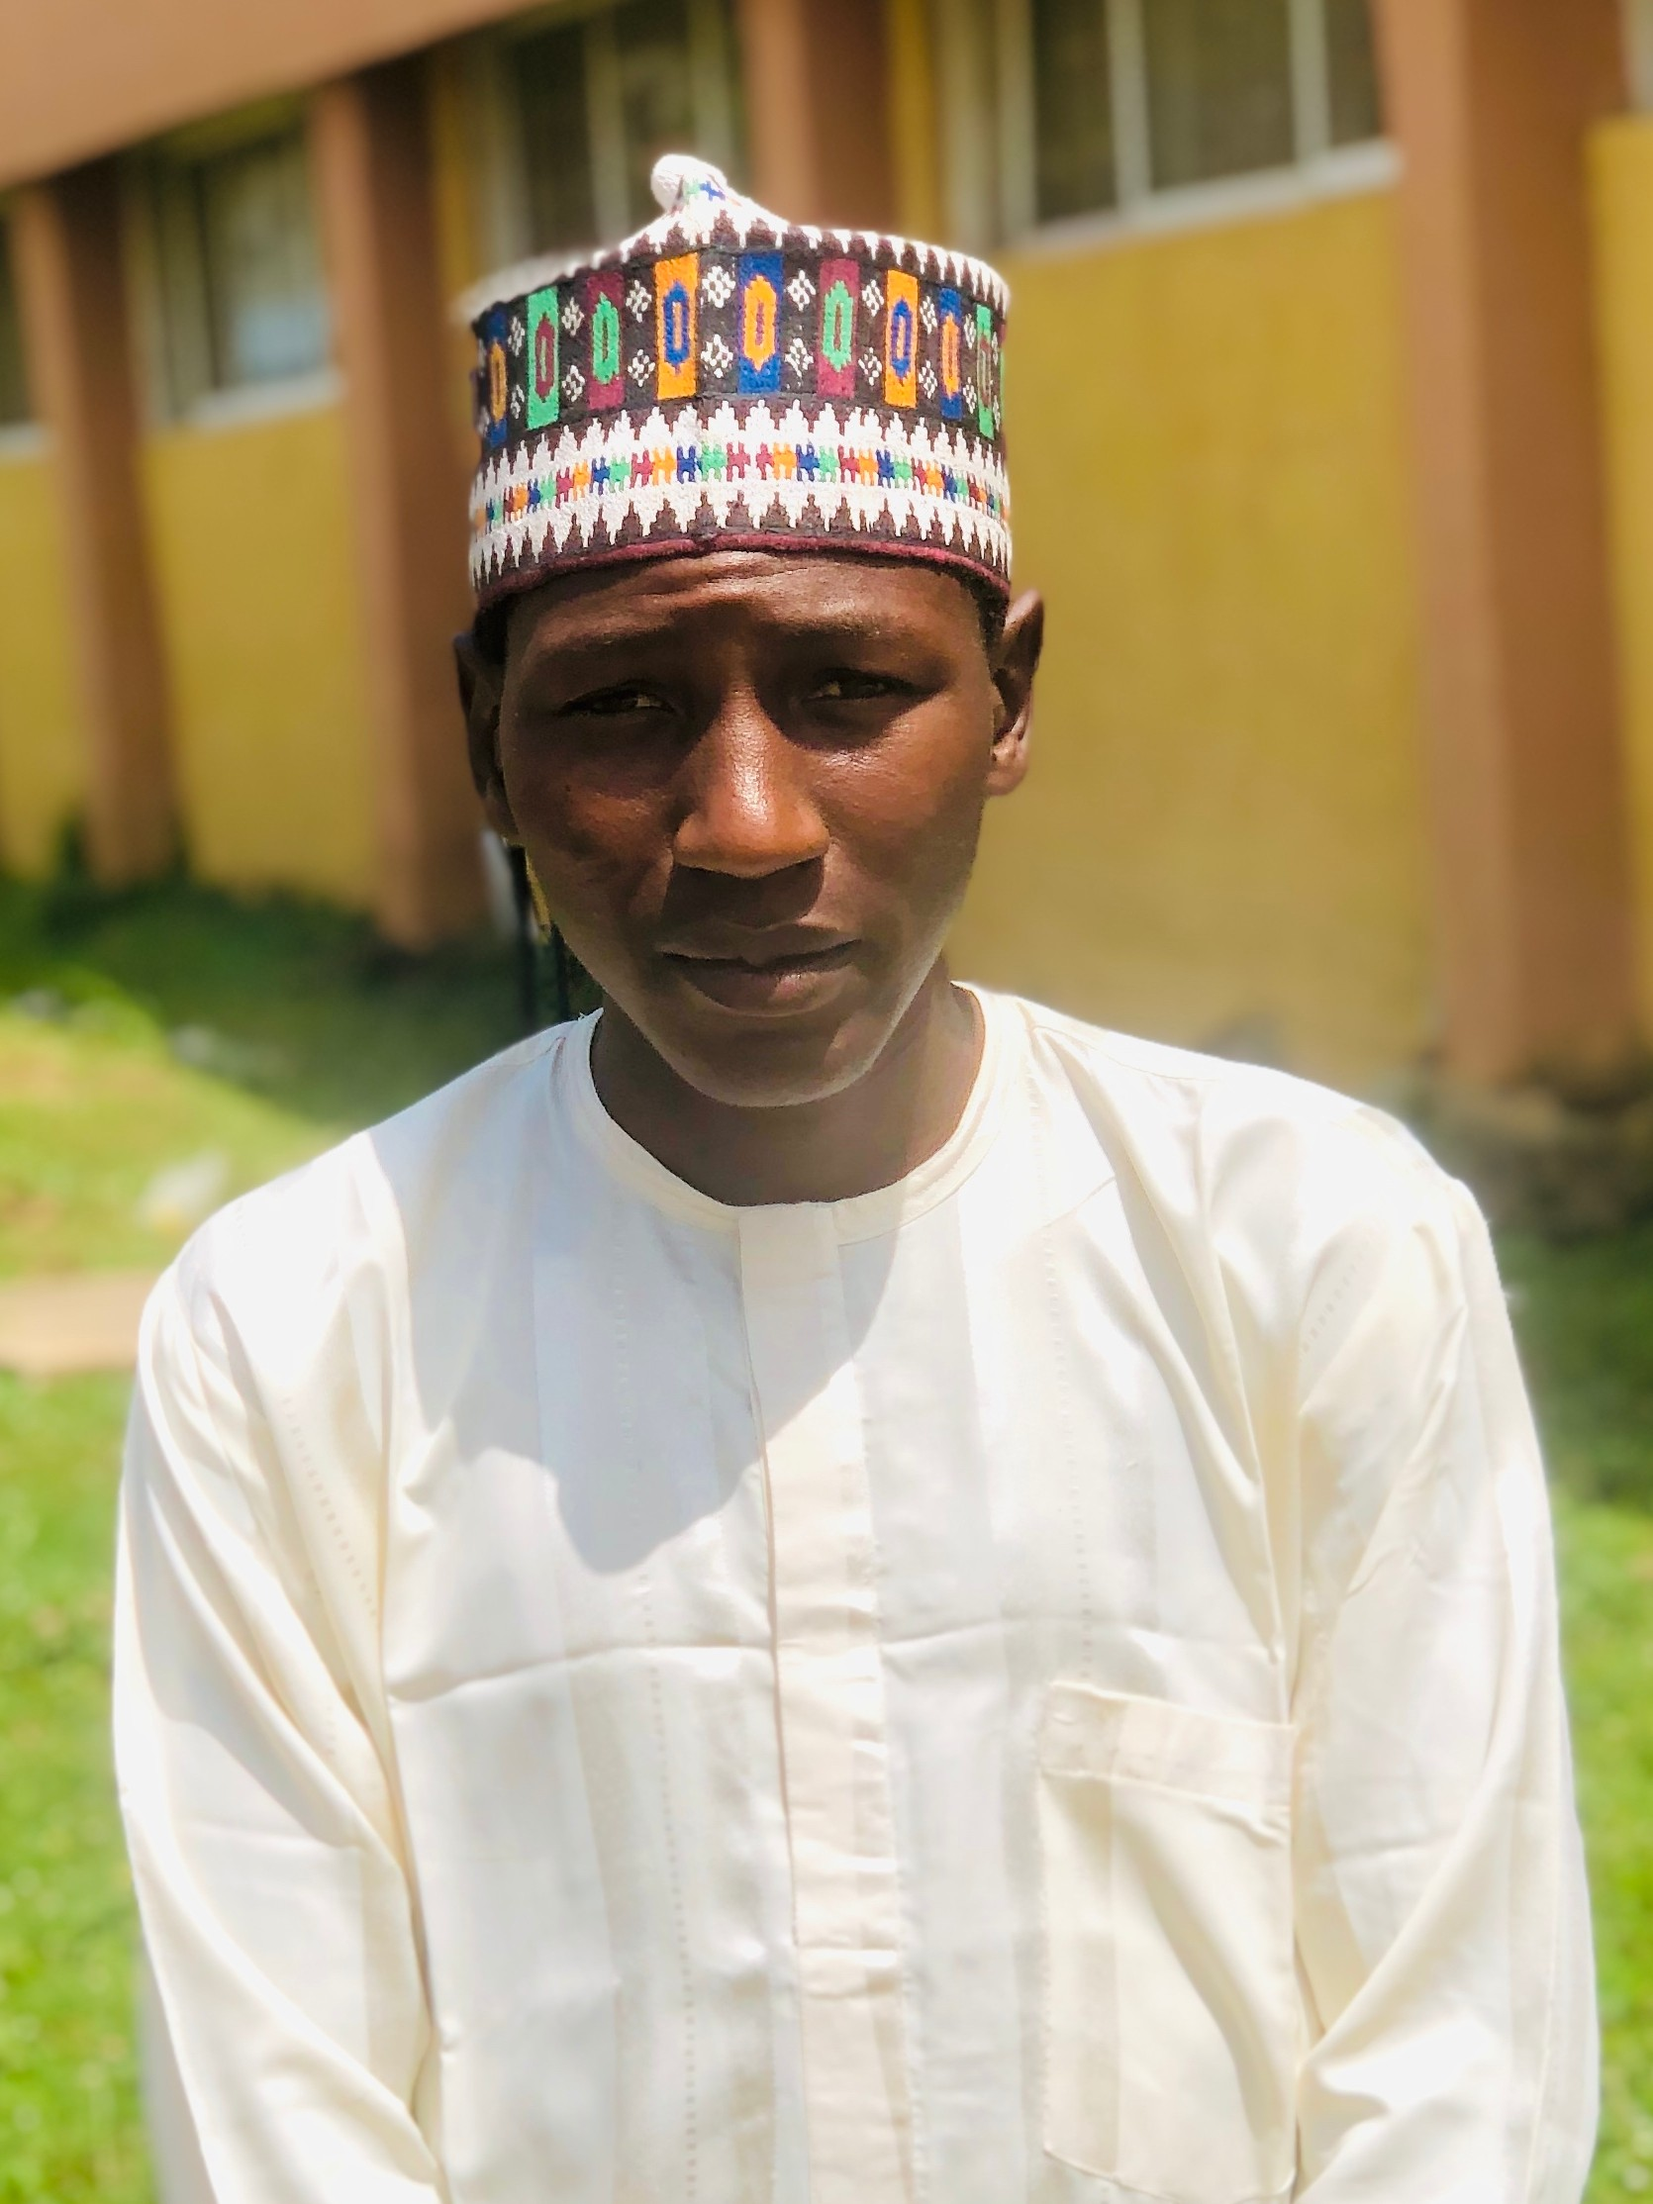
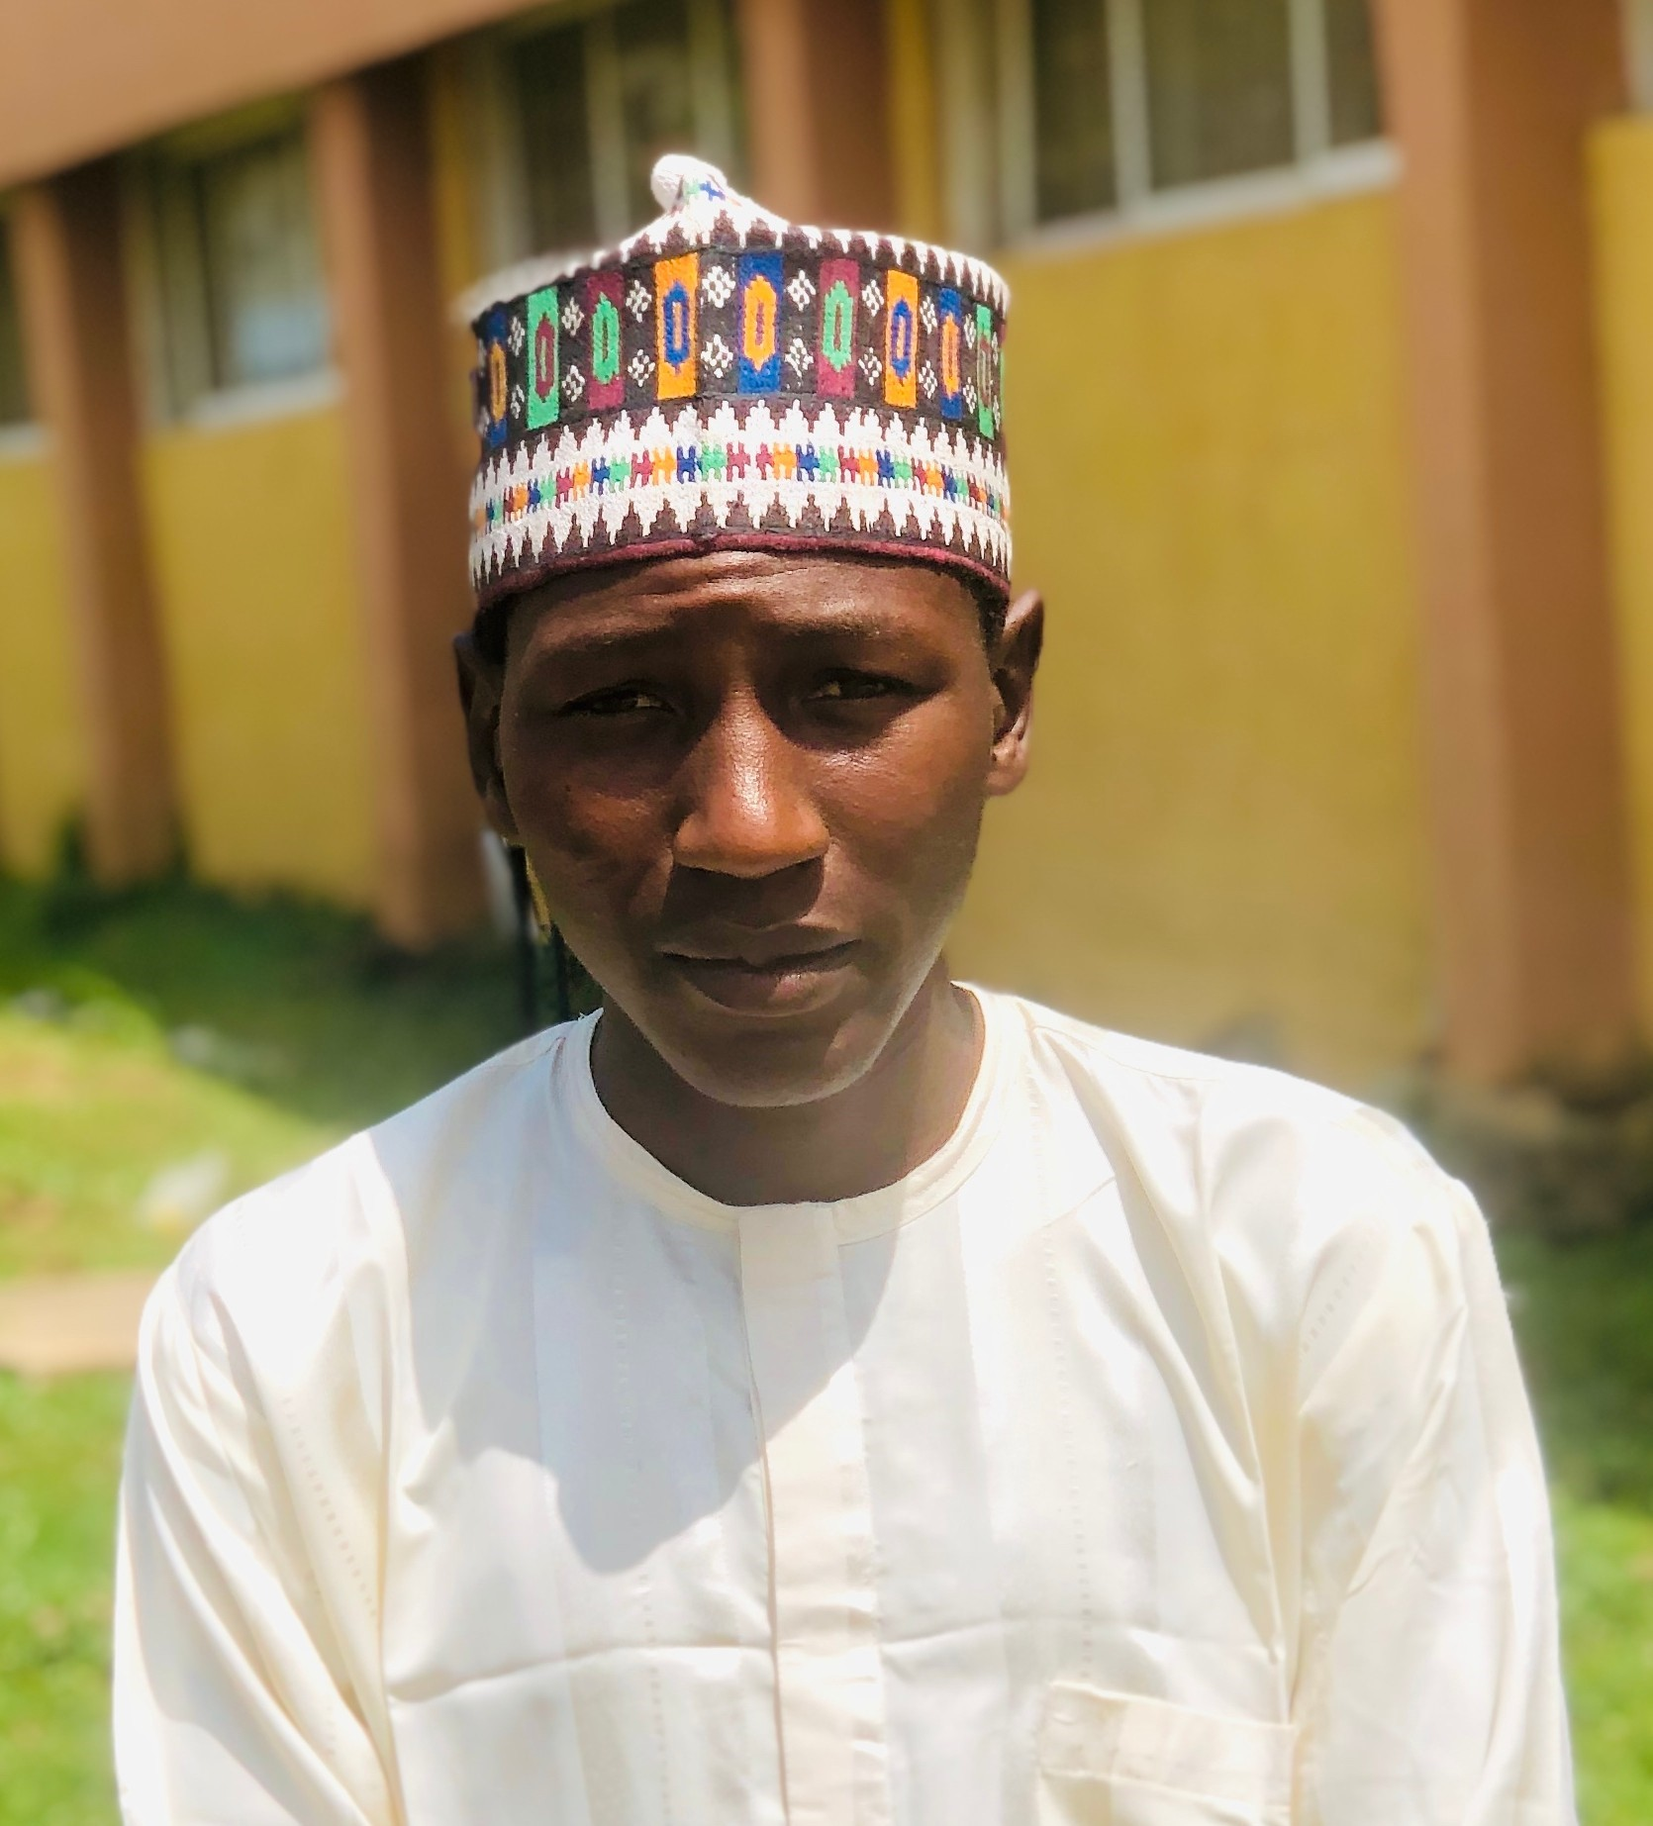
Added role to developers image overlay on 'about.php' page

diff --git a/assets/css/excos.css b/assets/css/excos.css
@@ -4,21 +4,8 @@
   font-family: Arial, Helvetica, sans-serif;
   font-family: "Gupter", serif;
 }
-/* Scroll bar */
-::-webkit-scrollbar {
-  background-color: #04b054;
-  width: 15px;
-}
-
-::-webkit-scrollbar-thumb {
-  background-color: white;
-  width: 30px;
-  border-radius: 10px;
-}
-
 .header {
   width: 100%;
-  padding: 70px 0px;
   background-image: linear-gradient(
       rgba(0, 185, 86, 0.705),
       rgba(0, 185, 86, 0.705)
@@ -27,11 +14,11 @@
   background-repeat: no-repeat;
   background-position: center;
   background-size: cover;
+  text-align: center;
 }
 .header h5 {
-  text-align: center;
   color: #fff;
-  font-size: 4em;
+  font-size: clamp(24px, 8vw, 2.5rem);
   font-weight: bold;
 }
 
@@ -43,7 +30,7 @@
   margin-bottom: 50px;
 }
 .mssn-excos > h2 {
-  font-size: 2em;
+  font-size: clamp(24px, 8vw, 2.5rem);
   text-align: center;
   margin: 50px 0px 20px 0px;
 }
@@ -87,44 +74,13 @@
   box-shadow: 1px 1px 1px 1px rgba(0, 0, 0, 0.609);
   padding: 15px;
 }
-
+.mssn-excos .excos .excos1 .content > p {
+  margin: 0px;
+}
 .mssn-excos .excos .excos1 .content > p:first-child {
   border-bottom: 2px solid rgba(0, 0, 0, 0.459);
   padding: 0px 0px 1px 0px;
   margin-bottom: 2px;
-}
-
-/* Responsiveness for Header */
-@media (max-width: 1113px) {
-  .header h5 {
-    font-size: 3em;
-  }
-}
-@media (max-width: 694px) {
-  .header h5 {
-    font-size: 2em;
-  }
-}
-@media (max-width: 455px) {
-  .header h5 {
-    font-size: 1.5em;
-  }
-}
-@media (max-width: 361px) {
-  .header {
-    width: 100vw;
-    padding: 40px 0px;
-    height: fit-content;
-  }
-  .header h5 {
-    font-size: 1.2em;
-  }
-}
-
-@media (max-width: 288px) {
-  .header h5 {
-    font-size: 1em;
-  }
 }
 
 /* Responsiveness for Excos Images */

diff --git a/assets/css/about.css b/assets/css/about.css
@@ -57,7 +57,8 @@ body {
 .o-vs-header p,
 .dev-header p {
   text-align: center;
-  font-size: 2em;
+  font-size: clamp(13px, 4vw, 2rem);
+  /* font-size: 4vw; */
   margin: 20px 0;
   font-weight: bold;
 }
@@ -72,10 +73,13 @@ body {
 }
 .dev-inner img {
   width: 100%;
-  height: 350px;
-  object-fit: fill;
+  height: 330px;
+  object-fit: cover;
   box-shadow: 1px 1px 2px 2px rgba(0, 0, 0, 0.472);
   border-radius: 10px;
+}
+.dev-inner:nth-child(2) img {
+  object-fit: fill;
 }
 .dev-overlay-wrapper {
   position: absolute;

diff --git a/about.php b/about.php
@@ -125,70 +125,79 @@
                 <div class="dev-overlay-wrapper">
                     <div class="dev-overlay-content">
                         <p>Ibrahim Nurudeen Shehu</p>
+                        <i>Team Lead</i>
                     </div>
                 </div>
             </div>
             <div class="col-sm-5 col-md-3 dev-inner">
-                <img class="img-fluid object-fit-cover" src="./images/developers/chief.JPG" alt="MSSN Developers">
+                <img class="img-fluid" src="./images/developers/chief.JPG" alt="MSSN Developers">
                 <div class="dev-overlay-wrapper">
                     <div class="dev-overlay-content">
                         <p>Abubakar Yahaya</p>
+                        <i>Frontend Developer</i>
                     </div>
                 </div>
             </div>
             <div class="col-sm-5 col-md-3 dev-inner">
-                <img class="img-fluid object-fit-cover" src="./images/developers/unknown.jpg" alt="MSSN Developers">
+                <img class="img-fluid" src="./images/developers/muhammad.jpg" alt="MSSN Developers">
                 <div class="dev-overlay-wrapper">
                     <div class="dev-overlay-content">
                         <p>Husseini Muh'd Aminu</p>
+                        <i>Frontend Developer</i>
                     </div>
                 </div>
             </div>
             <div class="col-sm-5 col-md-3 dev-inner">
-                <img class="img-fluid object-fit-cover" src="./images/developers/umar (2).jpg" alt="MSSN Developers">
+                <img class="img-fluid" src="./images/developers/umar.jpg" alt="MSSN Developers">
                 <div class="dev-overlay-wrapper">
                     <div class="dev-overlay-content">
                         <p>Jibril Umar Faruk</p>
+                        <i>UI Designer</i>
                     </div>
                 </div>
             </div>
             <div class="col-sm-5 col-md-3 dev-inner">
-                <img class="img-fluid object-fit-cover" src="./images/developers/unknown.jpg" alt="MSSN Developers">
+                <img class="img-fluid" src="./images/developers/unknown.jpg" alt="MSSN Developers">
                 <div class="dev-overlay-wrapper">
                     <div class="dev-overlay-content">
                         <p>Abdulrahman Umar</p>
+                        <i>Frontend Developer</i>
                     </div>
                 </div>
             </div>
             <div class="col-sm-5 col-md-3 dev-inner">
-                <img class="img-fluid object-fit-cover" src="./images/developers/shuraihu.jpg" alt="MSSN Developers">
+                <img class="img-fluid" src="./images/developers/shuraihu.jpg" alt="MSSN Developers">
                 <div class="dev-overlay-wrapper">
                     <div class="dev-overlay-content">
                         <p>Shuraihu Usman</p>
+                        <i>Backend Developer</i>
                     </div>
                 </div>
             </div>
             <div class="col-sm-5 col-md-3 dev-inner">
-                <img class="img-fluid object-fit-cover" src="./images/developers/unknown.jpg" alt="MSSN Developers">
+                <img class="img-fluid" src="./images/developers/unknown.jpg" alt="MSSN Developers">
                 <div class="dev-overlay-wrapper">
                     <div class="dev-overlay-content">
                         <p>Sadeeq Umar Abubakar</p>
+                        <i>Frontend Developer</i>
                     </div>
                 </div>
             </div>
             <div class="col-sm-5 col-md-3 dev-inner">
-                <img class="img-fluid object-fit-cover" src="./images/developers/faisal.jpg" alt="MSSN Developers">
+                <img class="img-fluid" src="./images/developers/faisal.jpg" alt="MSSN Developers">
                 <div class="dev-overlay-wrapper">
                     <div class="dev-overlay-content">
                         <p>Kabiru Muh'd Faisal</p>
+                        <i>Backend Developer</i>
                     </div>
                 </div>
             </div>
             <div class="col-sm-5 col-md-3 dev-inner">
-                <img class="img-fluid object-fit-cover" src="./images/developers/unknown.jpg" alt="MSSN Developers">
+                <img class="img-fluid" src="./images/developers/unknown.jpg" alt="MSSN Developers">
                 <div class="dev-overlay-wrapper">
                     <div class="dev-overlay-content">
                         <p>Dawood Ayatullah</p>
+                        <i>Graphics Designer</i>
                     </div>
                 </div>
             </div>

diff --git a/excos.php b/excos.php
@@ -14,7 +14,7 @@
     <?php include_once "./includes/navbar.php"; ?>
     <!-- End of Navbar -->
 
-    <div class="header">
+    <div class="header py-3 py-sm-4 py-md-5">
         <h5>MSSN LEADERS & EXCOS</h5>
     </div>
 
